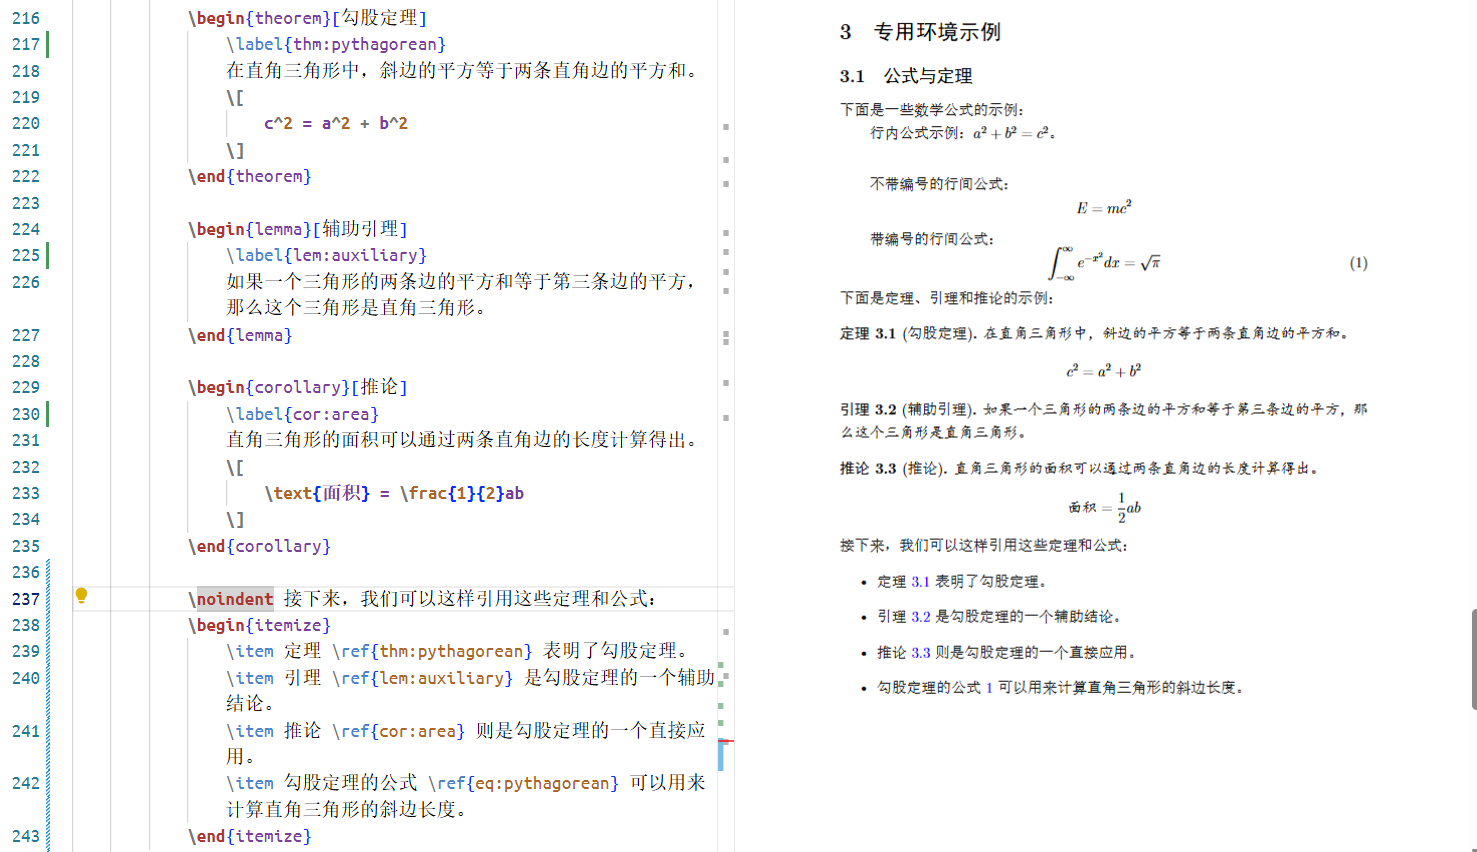
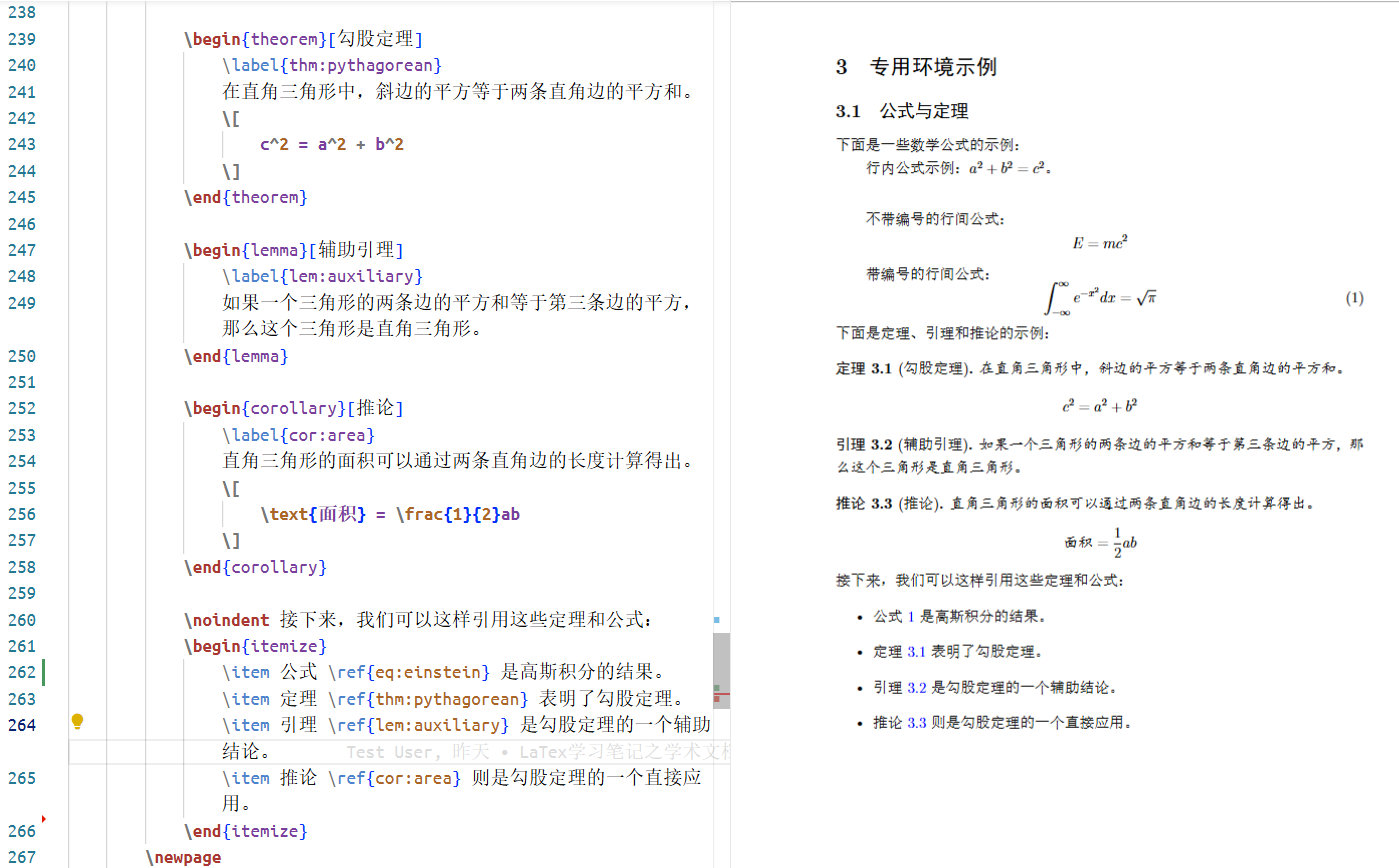
LaTex学习笔记之学术文档排版

diff --git a/02_基础技术研究/00.计算机语言/02.标记语言/LaTeX/example/cmd_demo/demo.tex b/02_基础技术研究/00.计算机语言/02.标记语言/LaTeX/example/cmd_demo/demo.tex
@@ -230,7 +230,7 @@
 
             带编号的行间公式：
             \begin{equation}
-                \label{eq:pythagorean}
+                \label{eq:einstein}
                 \int_{-\infty}^{\infty} e^{-x^2} dx = \sqrt{\pi}
             \end{equation}
 
@@ -259,10 +259,10 @@
 
             \noindent 接下来，我们可以这样引用这些定理和公式：
             \begin{itemize}
+                \item 公式 \ref{eq:einstein} 是高斯积分的结果。
                 \item 定理 \ref{thm:pythagorean} 表明了勾股定理。
                 \item 引理 \ref{lem:auxiliary} 是勾股定理的一个辅助结论。
                 \item 推论 \ref{cor:area} 则是勾股定理的一个直接应用。
-                \item 勾股定理的公式 \ref{eq:pythagorean} 可以用来计算直角三角形的斜边长度。
             \end{itemize}
         \newpage
         \subsection{算法与代码}
@@ -306,6 +306,6 @@
                     return f
             \end{lstlisting}
 
-            \noindent 上述代码实现了斐波那契数列的计算，并且使用了迭代的方法。你可以通过调用 `fibonacci(n)` 来计算斐波那契数列的前 $n$ 项。
+            \noindent 代码清单 \ref{lst:fibonacci_python} 中实现了斐波那契数列的计算，并且使用了迭代的方法。你可以通过调用 `fibonacci(n)` 来计算斐波那契数列的前 $n$ 项。
         \newpage
 \end{document}

diff --git a/02_基础技术研究/00.计算机语言/02.标记语言/LaTeX/LaTeX学习笔记：学术文档排版.md b/02_基础技术研究/00.计算机语言/02.标记语言/LaTeX/LaTeX学习笔记：学术文档排版.md
@@ -329,16 +329,17 @@ categories: 标记语言
     行内公式示例：$a^2 + b^2 = c^2$。
     ```
 
-- 行间公式：主要用于在文档中用独立的行展示重要的数学公式，它可以有带编号（`\begin{equation}…\end{equation}`）和不带编号（`\[… \]`）两种编辑形式。
+- 行间公式：主要用于在文档中用独立的行展示重要的数学公式，它按照是否带有编号和标签可分为以下两种编辑形式：
 
     ```tex
-    不带编号的行间公式：
+    不带编号和标签的行间公式：
     \[
         E = mc^2
     \]
 
-    带编号的行间公式：
+    带编号和标签的行间公式：
     \begin{equation}
+        \label{eq:einstein} % 为该公式定义引用标签
         \int_{-\infty}^{\infty} e^{-x^2} dx = \sqrt{\pi}
     \end{equation}
     ```
@@ -384,19 +385,19 @@ categories: 标记语言
                 \]
             \end{corollary}
 
-            接下来，我们可以这样引用这些定理和公式：
+            接下来，我们可以这样引用这些公式和定理：
             \begin{itemize}
                 \item 定理 \ref{thm:pythagorean} 表明了勾股定理。
                 \item 引理 \ref{lem:auxiliary} 是勾股定理的一个辅助结论。
                 \item 推论 \ref{cor:area} 则是勾股定理的一个直接应用。
-                \item 勾股定理的公式 \ref{eq:pythagorean} 可以用来计算直角三角形的斜边长度。
+                \item 公式 \ref{eq:einstein} 是高斯积分的结果。
             \end{itemize}
         \newpage
     % 省略之后的章节
 \end{document}
 ```
 
-现在，如果我们再次编译这个文档，就可以看到“公式与定理”这个二级标题下面已经出现了这个勾股定理相关的定理、引理、推论，以及我们在后续正文中对它们的引用（使用`\ref`命令），如图 7 所示：
+现在，如果我们再次编译这个文档，就可以看到“公式与定理”这个二级标题下面已经出现了这个勾股定理相关的定理、引理、推论，以及我们在后续正文中对它们以及之前那个高斯积分公式的引用（使用`\ref`命令），如图 7 所示：
 
 ![图 7：定理与公式的示例](./img/Theorem.png)
 
@@ -404,7 +405,7 @@ categories: 标记语言
 
 ### 算法与代码
 
-在计算机类的学术文档中，我们常常需要使用一些伪代码来描述针对某一问题的算法设计结果，而后还会用某一具体的编程语言来展示该算法的实现代码。在 $\LaTeX$ 中，我们通常通过加载`algorithm`或`algorithm2e`宏包来获得用于书写算法描述与实现代码的功能，其基本语法如下：
+在计算机类的学术文档中，我们常常需要使用一些伪代码来描述针对某一问题的算法设计结果，而后还会用某一具体的编程语言来展示该算法的实现代码。在 $\LaTeX$ 中，我们通常会通过加载`algorithm2e`宏包来获得用于书写算法描述与实现代码的功能，其基本语法如下：
 
 ```tex
 % 需要先在文档的全局设置区加载 algorithm2e 宏包
@@ -427,8 +428,8 @@ categories: 标记语言
 % 省略之前的文档结构定义部分
 \usepackage[ruled, linesnumbered]{algorithm2e} 
     % 提供算法描述环境，其设置参数如下：
-    % ruled: 设置算法主体部分有顶部和底部的横线
-    % linesnumbered: 设置算法主体部分显示行号
+    %   ruled: 设置算法主体部分有顶部和底部的横线
+    %   linesnumbered: 设置算法主体部分显示行号
 
 % 开始组织文档内容
 \begin{document}
@@ -473,7 +474,8 @@ categories: 标记语言
 在完成了对算法设计的描述之后，我们通常会需要用一种具体的编程语言来展示该算法的实现代码。在 $\LaTeX$ 中，我们通常通过加载`listings`宏包来获得用于书写代码的功能，其基本语法如下：
 
 ```tex
-% 需要先在文档的全局设置区加载 listings 宏包
+% 需要先在文档的全局设置区加载 listings 宏包，
+% 并进行相应的全局设置
 \begin{lstlisting}[language=编程语言, caption=代码标题, label=代码标签]
     % 代码内容
 \end{lstlisting}
@@ -487,7 +489,7 @@ categories: 标记语言
 \usepackage{xcolor}   % 用于定义颜色
 
 \lstset{
-    basicstyle=\ttfamily\small,        % 基本字体：等宽、小号
+    basicstyle=\ttfamily\small,         % 基本字体：等宽、小号
     numbers=left,                       % 行号在左侧
     numberstyle=\color{gray}\tiny,      % 行号样式：灰色、更小
     frame=single,                       % 边框：单线框
@@ -526,6 +528,8 @@ categories: 标记语言
                         f.append(f[i-1] + f[i-2])
                     return f
             \end{lstlisting}
+
+            \noindent 代码清单\ref{lst:fibonacci_python}中实现了斐波那契数列的计算，并且使用了迭代的方法。你可以通过调用 `fibonacci(n)` 来计算斐波那契数列的前 $n$ 项。
         \newpage
 \end{document}
 ```
@@ -577,4 +581,4 @@ categories: 标记语言
 
 若你经常撰写论文或报告，建议构建一个个人 LaTeX 模板，包含常用宏包、页眉页脚、定理环境、算法环境、图表样式、参考文献设定等。每次写作时只需复制模板，替换标题、作者、内容即可，使撰写流程更高效。
 
-## 笔记小节
+## 笔记小结
